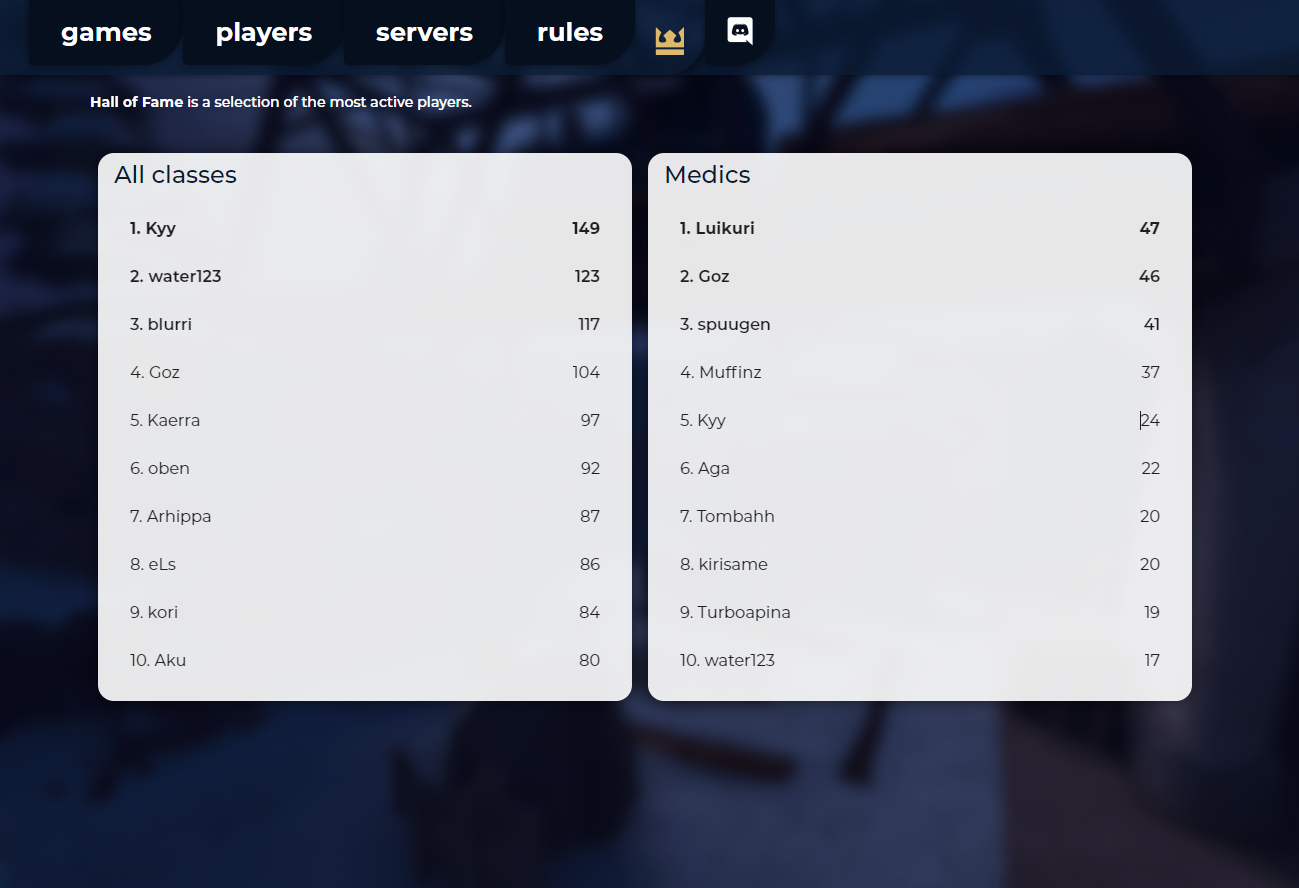
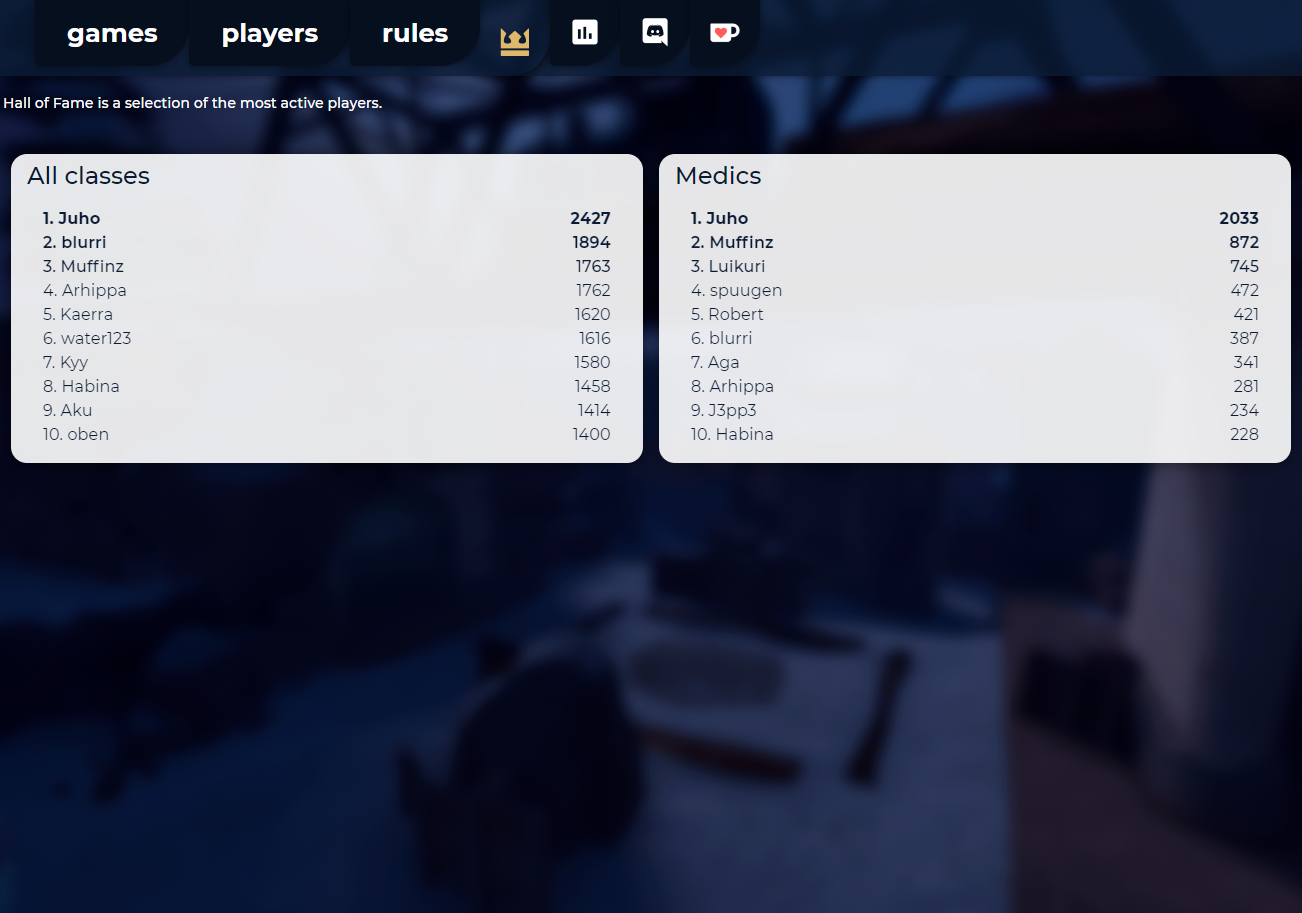
refactor: update site overview

diff --git a/docs/site-overview.md b/docs/site-overview.md
@@ -32,6 +32,14 @@ title: Site overview
 
 ![player-profile](/img/content/player-profile.png)
 
+### Stats
+
+![stats](/img/content/stats.png)
+
+### Hall of fame
+
+![hall-of-fame](/img/content/hall-of-fame.png)
+
 ### Rules page
 
 ![rules-page](/img/content/rules-page.png)
